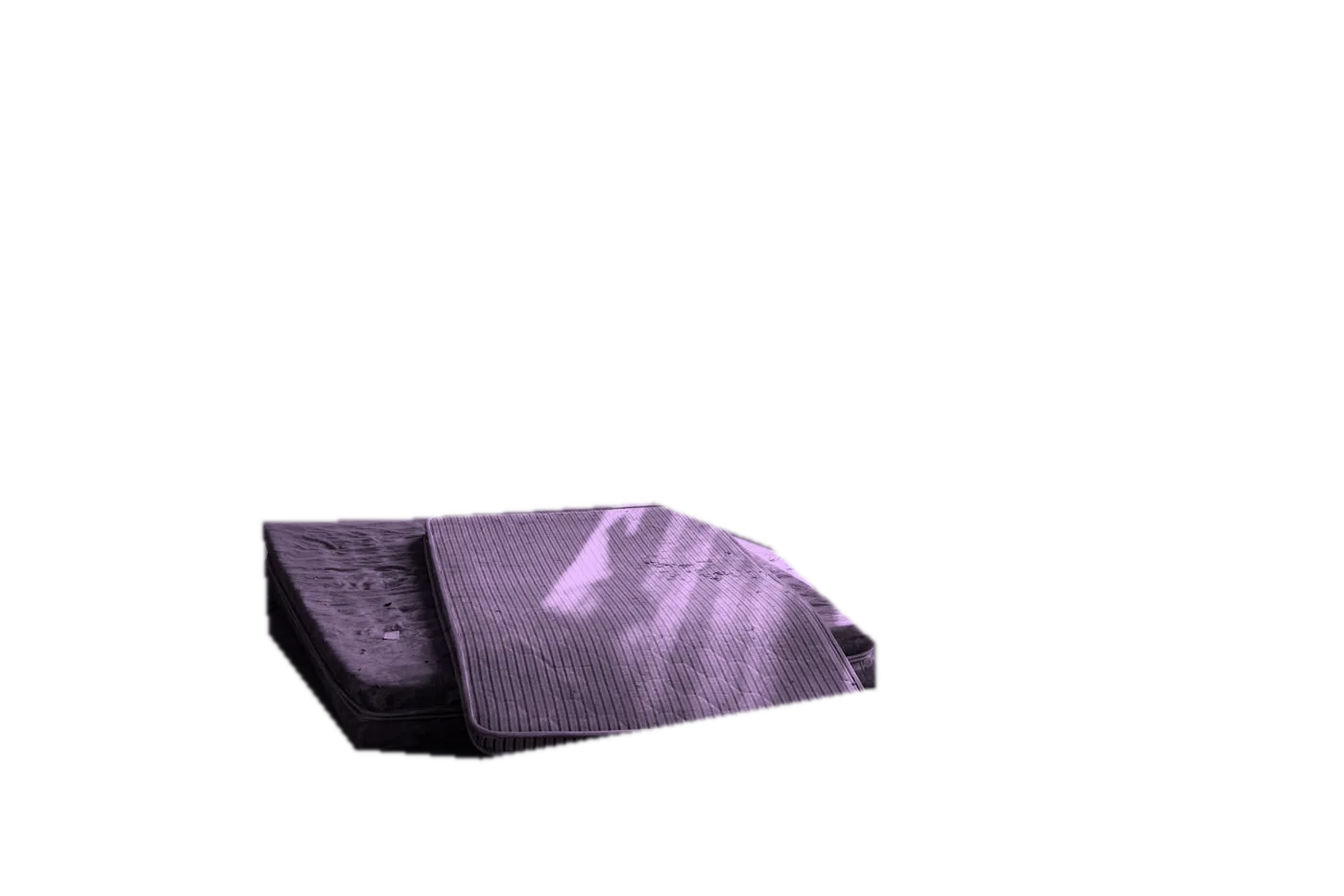
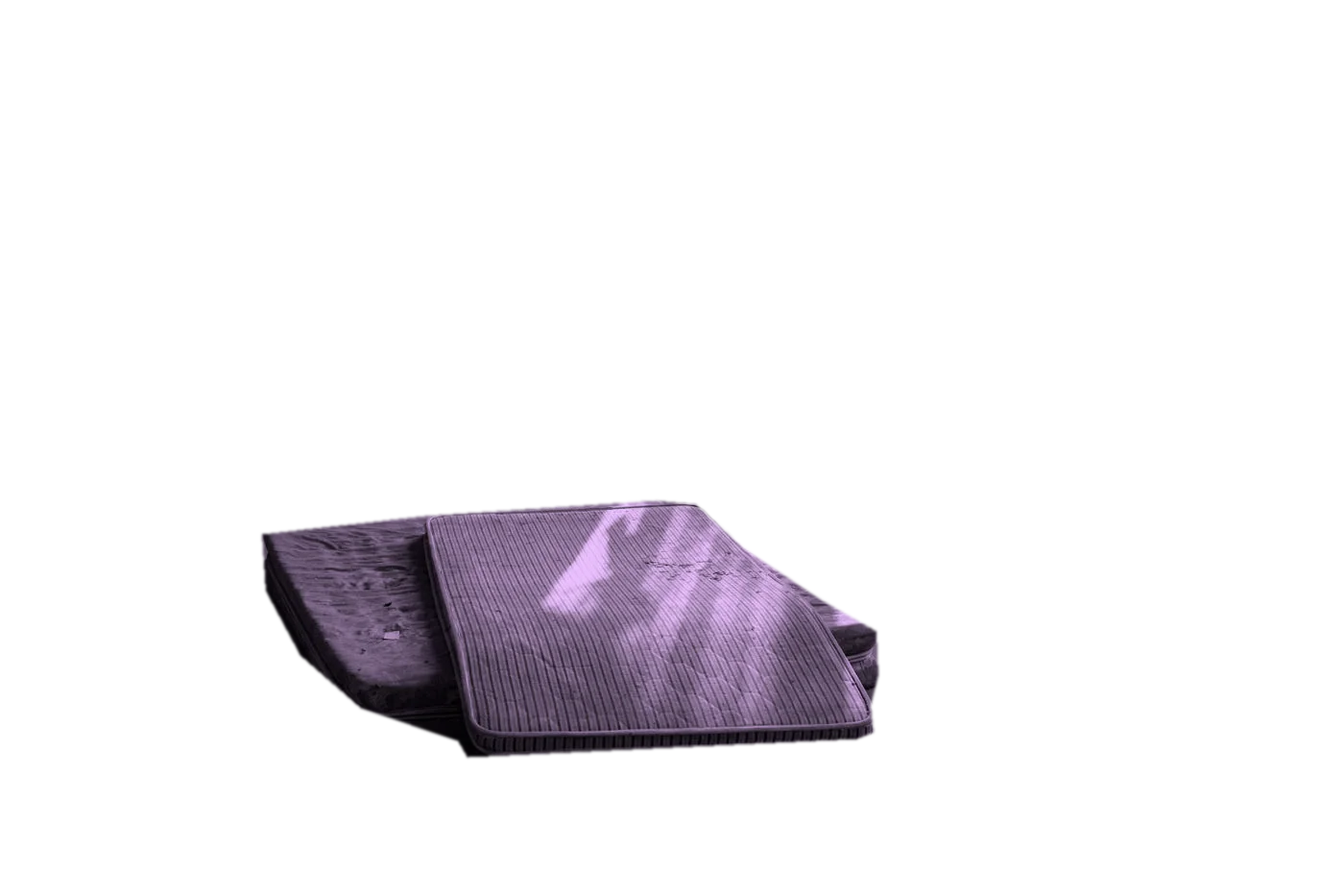
Kolibri-Seite: Farbebenen einzeln geprüft und nachgezeichnet (Stuhl, Matratzen, Fenster, Polster), unsaubere Graffiti-Ebenen entfernt
Claude-Session: https://claude.ai/code/session_01BfUFskKUTpTaCydK1EPK3d

Changed region(s): [[0.1843, 0.6527, 0.6757, 0.8703], [0.3071, 0.5595, 0.6143, 0.6838], [0.1843, 0.5595, 0.2764, 0.6217]]

diff --git a/public/hauptseite/referenzen/make-it-real/index.html b/public/hauptseite/referenzen/make-it-real/index.html
@@ -75,7 +75,7 @@ select{width:100%;background:#0b1030;border:1px solid #5666a8;color:white;border
 <section id="idee"><div class="eyebrow">Mehr als eine schöne Idee</div><div class="sectiontop"><h2>Es beginnt mit einem Funken.<br>Es bleibt ein Eindruck.</h2><p>Wie ein Kolibri: voller Energie, unverwechselbar und immer in Bewegung. Genau so darf sich deine nächste Idee anfühlen.</p></div><div class="offers"><article class="offer"><small>01 / KLARHEIT</small><h3>Deine Vision. Auf den Punkt.</h3><p>Was möchtest du verändern? Für wen? Aus einem ersten Gedanken wird eine klare Richtung.</p><span class="tag">IDEE & KONZEPT ↗</span></article><article class="offer"><small>02 / AUSDRUCK</small><h3>Mut zur eigenen Farbe.</h3><p>Farben, Formen und Worte, die zusammenpassen. Ein Auftritt, der deine Persönlichkeit sichtbar macht.</p><span class="tag">DESIGN & IDENTITÄT ↗</span></article><article class="offer"><small>03 / BEWEGUNG</small><h3>Vom Kopf in die Welt.</h3><p>Eine Seite zum Entdecken. Eine Geschichte zum Weitererzählen. Ein nächster Schritt, der sich richtig anfühlt.</p><span class="tag">WEB & ERLEBNIS ↗</span></article></div></section>
 <section class="experience" id="inspiration"><div class="visual"><div class="art-window" id="art" data-tint role="img" aria-label="Kolibri-Farbexperiment"></div><div class="visual-copy"><div class="eyebrow">Ein Motiv. Neue Möglichkeiten.</div><h2 style="margin-top:25px">Weniger gewöhnlich.<br>Mehr du.</h2><p>Ein kleiner Perspektivwechsel kann alles verändern. Das Motiv bleibt ruhig – nur die Farbstimmung wechselt alle zwei Sekunden zwischen Türkis, Violett und Gold. Pausiere den Wechsel oder wähle deine Farbe selbst.</p><div class="mood-bar" style="margin-top:0" role="group" aria-label="Farbstimmung wählen"><div class="palette"><button type="button" class="swatch" style="background:#86e6cf" data-mood="0" aria-label="Türkis" aria-pressed="true"></button><button type="button" class="swatch" style="background:#b9a8ff" data-mood="1" aria-label="Violett" aria-pressed="false"></button><button type="button" class="swatch" style="background:#e8c76a" data-mood="2" aria-label="Gold" aria-pressed="false"></button></div><button type="button" class="cyclebtn" data-cycle aria-pressed="false">Farbwechsel pausieren</button></div><div class="palette-label" data-mood-label>Türkis · Klar. Lebendig. Grenzenlos.</div><p class="mood-note" data-cycle-note></p><p class="sr-only" id="moodStatus" role="status"></p></div></div></section>
 <section id="weg"><div class="eyebrow">Von „Was wäre, wenn?“ zu „Wow.“</div><div class="sectiontop"><h2>Große Ideen.<br>Ein klarer nächster Schritt.</h2></div><div class="steps"><article><small>01 — ENTDECKEN</small><h3>Gib der Idee Raum.</h3><p>Sammle, was dich inspiriert. Ein Bild, ein Gefühl, ein Ziel. Der Anfang muss noch nicht perfekt sein.</p></article><article><small>02 — FORMEN</small><h3>Mach sie greifbar.</h3><p>Wähle eine Richtung und konzentriere dich auf das Wesentliche. Was soll jemand sehen, fühlen und tun?</p></article><article><small>03 — STARTEN</small><h3>Bring sie ins Rollen.</h3><p>Halte deinen ersten konkreten Schritt fest. Aus „irgendwann“ wird ein Projekt mit einer Richtung.</p></article></div></section>
-<section class="makro" id="makro"><div class="eyebrow">Makrofotografie</div><div class="sectiontop"><h2>Farbe im Detail.<br>Nah genug zum Staunen.</h2><p>Ein Federmotiv in Makro: Das Foto bleibt gleich, nur der Farbton wechselt mit der gewählten Stimmung – Türkis, Violett, Gold.</p></div><div class="mk-grid"><figure class="mk big"><div class="mk-img" data-tint-mk role="img" aria-label="Makrofoto einer schillernden Pfauenfeder mit blauem Auge, der Farbton folgt der gewählten Stimmung"></div><figcaption>Makro · Stimmung: <span data-mood-label></span></figcaption></figure><figure class="mk d1"><div class="mk-img" data-tint-mk role="img" aria-label="Detailausschnitt der Feder, Struktur und Glanz"></div><figcaption>Detail · Struktur</figcaption></figure><figure class="mk d2"><div class="mk-img" data-tint-mk role="img" aria-label="Detailausschnitt der Feder, Farbverlauf"></div><figcaption>Detail · Farbverlauf</figcaption></figure></div><p class="mk-note">Foto: Akshat Sharma auf Unsplash (freie Nutzung unter der Unsplash-Lizenz). Platzhalter für eigene Makroaufnahmen von SECRET 58; es zeigt keine Personen und keine Kundenprojekte.</p><div class="ruinen"><h3>Verlassene Orte</h3><p class="sub">Alte Kirchen, Ruinen und aufgegebene Räume, in denen Möbel und Spuren des Lebens zurückgeblieben sind. Die Fotos bleiben, wie sie sind. Nur kleine Details verändern sich ganz sacht, und nur dort, wo es sie im Bild gibt: Gras und Laub wechseln zwischen Sommergrün und Herbst, der Himmel bekommt Morgenrot, einzelne Gegenstände wie Polster, Vorhänge oder Fensterrahmen nehmen eine andere Farbe an, Graffiti wechseln ihre Farben. Stühle, Tische, Bänke, Polster, Vorhänge, Teppiche und Tapeten nehmen Farben aus der Palette an (Türkis, Violett, Gold). Fotos ohne solche Details bleiben unverändert. Ein Klick zeigt das Originalfoto groß.</p><div class="ru-grid"><figure class="ru"><button type="button" class="ru-open" aria-label="Foto vergrößern: Verlassene Kirche mit Altar"><img src="ruinen/ruine-01.jpg" alt="Verlassene Kirche mit Altar, Kreuz und Teppich im Licht eines Fensters" loading="lazy" width="1400" height="787"></button><img class="fv" src="ruinen/var/01-teppich-a.webp" alt="" aria-hidden="true" loading="lazy" style="--t:14s;--d:-3s"><img class="fv" src="ruinen/var/01-teppich-b.webp" alt="" aria-hidden="true" loading="lazy" style="--t:14s;--d:-10s"><img class="fv" src="ruinen/var/01-stuehle-a.webp" alt="" aria-hidden="true" loading="lazy" style="--t:16s;--d:-6s"><figcaption><b>Verlassene Kirche mit Altar</b>Foto: Gary Walker-Jones · Unsplash · Spiel: Teppich und Stühle in neuen Farben</figcaption></figure><figure class="ru"><button type="button" class="ru-open" aria-label="Foto vergrößern: Verlassene Holzkirche"><img src="ruinen/ruine-02.jpg" alt="Verlassene Holzkirche mit Türmchen und verwittertem Holz auf einer Wiese" loading="lazy" width="1400" height="933"></button><img class="fv" src="ruinen/var/02-herbst.webp" alt="" aria-hidden="true" loading="lazy" style="--t:14s;--d:-3s"><img class="fv" src="ruinen/var/02-himmel.webp" alt="" aria-hidden="true" loading="lazy" style="--t:17s;--d:-11s"><figcaption><b>Verlassene Holzkirche</b>Foto: Unsplash · Spiel: Gras und Laub im Herbst, Morgenrot im Himmel</figcaption></figure><figure class="ru"><button type="button" class="ru-open" aria-label="Foto vergrößern: Alte Steinkirche mit Rundfenster"><img src="ruinen/ruine-03.jpg" alt="Alte Steinkirche mit Spitzbogenfenster und rundem Fenster" loading="lazy" width="1400" height="933"></button><img class="fv" src="ruinen/var/03-himmel.webp" alt="" aria-hidden="true" loading="lazy" style="--t:15s;--d:-4s"><figcaption><b>Alte Steinkirche mit Rundfenster</b>Foto: Unsplash · Spiel: Himmel im Morgenrot</figcaption></figure><figure class="ru"><button type="button" class="ru-open" aria-label="Foto vergrößern: Verlassene Kirche, Langschiff"><img src="ruinen/ruine-04.jpg" alt="Langschiff einer verlassenen Kirche mit Säulen und Bogenfenstern" loading="lazy" width="1400" height="933"></button><img class="fv" src="ruinen/var/04-licht.webp" alt="" aria-hidden="true" loading="lazy" style="--t:9s;--d:-2s"><figcaption><b>Verlassene Kirche, Langschiff</b>Foto: Unsplash · Spiel: Licht in den Kirchenfenstern</figcaption></figure><figure class="ru"><button type="button" class="ru-open" aria-label="Foto vergrößern: Kirchenruine mit Backsteinboden"><img src="ruinen/ruine-05.jpg" alt="Kirchenruine mit Bögen, Backsteinboden und Pflanzen" loading="lazy" width="1400" height="933"></button><img class="fv" src="ruinen/var/05-graffiti.webp" alt="" aria-hidden="true" loading="lazy" style="--t:13s;--d:-5s"><figcaption><b>Kirchenruine mit Backsteinboden</b>Foto: Unsplash · Spiel: Graffiti in neuen Farben</figcaption></figure><figure class="ru"><button type="button" class="ru-open" aria-label="Foto vergrößern: Gewölbte Ruinenhalle"><img src="ruinen/ruine-06.jpg" alt="Hohe gewölbte Halle einer Ruine mit großem Spitzbogenfenster" loading="lazy" width="1400" height="933"></button><figcaption><b>Gewölbte Ruinenhalle</b>Foto: Unsplash</figcaption></figure><figure class="ru"><button type="button" class="ru-open" aria-label="Foto vergrößern: Verlassener Theatersaal"><img src="ruinen/ruine-07.jpg" alt="Leerer Theatersaal mit Bühne, Vorhängen und Bogenfenstern in rotem Licht" loading="lazy" width="1400" height="931"></button><img class="fv" src="ruinen/var/07-vorhang.webp" alt="" aria-hidden="true" loading="lazy" style="--t:13s;--d:-5s"><figcaption><b>Verlassener Theatersaal</b>Foto: Unsplash · Spiel: Vorhang in neuer Farbe</figcaption></figure><figure class="ru"><button type="button" class="ru-open" aria-label="Foto vergrößern: Ruine mit eingestürztem Dach"><img src="ruinen/ruine-08.jpg" alt="Ruine mit eingestürztem Dach, Licht fällt durch die Balken, Pflanzen wachsen im Inneren" loading="lazy" width="1400" height="933"></button><img class="fv" src="ruinen/var/08-herbst.webp" alt="" aria-hidden="true" loading="lazy" style="--t:15s;--d:-6s"><figcaption><b>Ruine mit eingestürztem Dach</b>Foto: Inna Nasonova · Unsplash · Spiel: Pflanzen im Herbst</figcaption></figure><figure class="ru"><button type="button" class="ru-open" aria-label="Foto vergrößern: Verlassener Saal mit Möbeln"><img src="ruinen/ruine-09.jpg" alt="Verlassener Saal mit umgestürzten Stühlen, Tischen und zersplittertem Glas" loading="lazy" width="1400" height="933"></button><img class="fv" src="ruinen/var/09-polster.webp" alt="" aria-hidden="true" loading="lazy" style="--t:13s;--d:-2s"><figcaption><b>Verlassener Saal mit Möbeln</b>Foto: Intricate Explorer · Unsplash · Spiel: Polster und Sofa in neuen Farben</figcaption></figure><figure class="ru"><button type="button" class="ru-open" aria-label="Foto vergrößern: Verfallener Raum mit Holzmöbeln"><img src="ruinen/ruine-10.jpg" alt="Verlassener Raum mit zerfallenden Wänden und Holzmöbeln" loading="lazy" width="1400" height="931"></button><img class="fv" src="ruinen/var/10-moebel-a.webp" alt="" aria-hidden="true" loading="lazy" style="--t:14s;--d:-2s"><img class="fv" src="ruinen/var/10-moebel-b.webp" alt="" aria-hidden="true" loading="lazy" style="--t:14s;--d:-9s"><figcaption><b>Verfallener Raum mit Holzmöbeln</b>Foto: Ed Stone · Unsplash · Spiel: Tisch und Bank in neuen Farben</figcaption></figure><figure class="ru"><button type="button" class="ru-open" aria-label="Foto vergrößern: Bogenfenster im verlassenen Raum"><img src="ruinen/ruine-11.jpg" alt="Hohes Bogenfenster in einem verfallenen Raum mit Regal und Tisch" loading="lazy" width="1400" height="932"></button><img class="fv" src="ruinen/var/11-herbst.webp" alt="" aria-hidden="true" loading="lazy" style="--t:15s;--d:-7s"><figcaption><b>Bogenfenster im verlassenen Raum</b>Foto: Peter Herrmann · Unsplash · Spiel: Laub vor dem Fenster im Herbst</figcaption></figure><figure class="ru"><button type="button" class="ru-open" aria-label="Foto vergrößern: Offene Türen und Schutt"><img src="ruinen/ruine-12.jpg" alt="Verfallenes Gebäude mit offenen Türen und Schutt auf dem Boden" loading="lazy" width="1400" height="934"></button><img class="fv" src="ruinen/var/12-tapete-a.webp" alt="" aria-hidden="true" loading="lazy" style="--t:16s;--d:-2s"><img class="fv" src="ruinen/var/12-tapete-b.webp" alt="" aria-hidden="true" loading="lazy" style="--t:16s;--d:-10s"><figcaption><b>Offene Türen und Schutt</b>Foto: Ries Bosch · Unsplash · Spiel: Tapete in neuen Farben</figcaption></figure><figure class="ru"><button type="button" class="ru-open" aria-label="Foto vergrößern: Sonnenlicht und alte Matratzen"><img src="ruinen/ruine-13.jpg" alt="Sonnendurchfluteter verlassener Raum mit alten Matratzen und zerbrochenen Fenstern" loading="lazy" width="1400" height="933"></button><img class="fv" src="ruinen/var/13-sessel-a.webp" alt="" aria-hidden="true" loading="lazy" style="--t:15s;--d:-4s"><img class="fv" src="ruinen/var/13-matratze-a.webp" alt="" aria-hidden="true" loading="lazy" style="--t:17s;--d:-11s"><figcaption><b>Sonnenlicht und alte Matratzen</b>Foto: X F · Unsplash · Spiel: Sessel und Matratzen in neuen Farben</figcaption></figure><figure class="ru"><button type="button" class="ru-open" aria-label="Foto vergrößern: Blick durch eine offene Tür"><img src="ruinen/ruine-14.jpg" alt="Dunkler Raum mit Blick durch eine offene Tür auf einen Stuhl" loading="lazy" width="1400" height="933"></button><img class="fv" src="ruinen/var/14-graffiti.webp" alt="" aria-hidden="true" loading="lazy" style="--t:13s;--d:-6s"><figcaption><b>Blick durch eine offene Tür</b>Foto: Unsplash · Spiel: Graffiti in neuen Farben</figcaption></figure><figure class="ru"><button type="button" class="ru-open" aria-label="Foto vergrößern: Rotes Zimmer mit Fenstern"><img src="ruinen/ruine-15.jpg" alt="Verlassenes Zimmer mit roten Wänden und zwei Fenstern" loading="lazy" width="1400" height="933"></button><img class="fv" src="ruinen/var/15-rahmen.webp" alt="" aria-hidden="true" loading="lazy" style="--t:13s;--d:-4s"><figcaption><b>Rotes Zimmer mit Fenstern</b>Foto: Unsplash · Spiel: Fensterfarbe wechselt</figcaption></figure><figure class="ru"><button type="button" class="ru-open" aria-label="Foto vergrößern: Sonnenlicht im leeren Raum"><img src="ruinen/ruine-16.jpg" alt="Leerer verfallener Raum, warmes Licht fällt durch die Fenster" loading="lazy" width="1400" height="933"></button><figcaption><b>Sonnenlicht im leeren Raum</b>Foto: Unsplash</figcaption></figure><figure class="ru"><button type="button" class="ru-open" aria-label="Foto vergrößern: Verfallene Fabrikhalle mit Dachlicht"><img src="ruinen/ruine-17.jpg" alt="Verfallene Fabrikhalle mit Stahlträgern und Licht durch das Dach" loading="lazy" width="1400" height="933"></button><figcaption><b>Verfallene Fabrikhalle mit Dachlicht</b>Foto: Unsplash</figcaption></figure><figure class="ru"><button type="button" class="ru-open" aria-label="Foto vergrößern: Endlose Säulenhalle"><img src="ruinen/ruine-18.jpg" alt="Lange Halle mit Holzsäulen in einem verlassenen Gebäude" loading="lazy" width="1400" height="933"></button><figcaption><b>Endlose Säulenhalle</b>Foto: Unsplash</figcaption></figure><figure class="ru"><button type="button" class="ru-open" aria-label="Foto vergrößern: Überflutete Stahlhalle"><img src="ruinen/ruine-19.jpg" alt="Ausgebrannte Stahlhalle, Wasser spiegelt das Gerüst" loading="lazy" width="1400" height="933"></button><figcaption><b>Überflutete Stahlhalle</b>Foto: Unsplash</figcaption></figure><figure class="ru"><button type="button" class="ru-open" aria-label="Foto vergrößern: Halle, die die Natur zurückholt"><img src="ruinen/ruine-20.jpg" alt="Verfallene Halle mit Bogenfenstern, Pflanzen und Sonnenstrahlen" loading="lazy" width="1400" height="933"></button><img class="fv" src="ruinen/var/20-herbst.webp" alt="" aria-hidden="true" loading="lazy" style="--t:16s;--d:-8s"><img class="fv" src="ruinen/var/20-graffiti.webp" alt="" aria-hidden="true" loading="lazy" style="--t:14s;--d:-2s"><figcaption><b>Halle, die die Natur zurückholt</b>Foto: Unsplash · Spiel: Laub im Herbst, Graffiti in neuen Farben</figcaption></figure></div><p class="mk-note">Alle Fotos stammen von Unsplash und dürfen dort unter der Unsplash-Lizenz kostenlos genutzt werden; bei den Bildern ohne Namen steht die Fotografin oder der Fotograf auf der jeweiligen Unsplash-Seite. Sie sind Beispiele für die Bildwelt dieses Designkonzepts. Die Orte sind nicht als öffentlich zugänglich zu verstehen, bitte nicht betreten.</p></div>
+<section class="makro" id="makro"><div class="eyebrow">Makrofotografie</div><div class="sectiontop"><h2>Farbe im Detail.<br>Nah genug zum Staunen.</h2><p>Ein Federmotiv in Makro: Das Foto bleibt gleich, nur der Farbton wechselt mit der gewählten Stimmung – Türkis, Violett, Gold.</p></div><div class="mk-grid"><figure class="mk big"><div class="mk-img" data-tint-mk role="img" aria-label="Makrofoto einer schillernden Pfauenfeder mit blauem Auge, der Farbton folgt der gewählten Stimmung"></div><figcaption>Makro · Stimmung: <span data-mood-label></span></figcaption></figure><figure class="mk d1"><div class="mk-img" data-tint-mk role="img" aria-label="Detailausschnitt der Feder, Struktur und Glanz"></div><figcaption>Detail · Struktur</figcaption></figure><figure class="mk d2"><div class="mk-img" data-tint-mk role="img" aria-label="Detailausschnitt der Feder, Farbverlauf"></div><figcaption>Detail · Farbverlauf</figcaption></figure></div><p class="mk-note">Foto: Akshat Sharma auf Unsplash (freie Nutzung unter der Unsplash-Lizenz). Platzhalter für eigene Makroaufnahmen von SECRET 58; es zeigt keine Personen und keine Kundenprojekte.</p><div class="ruinen"><h3>Verlassene Orte</h3><p class="sub">Alte Kirchen, Ruinen und aufgegebene Räume, in denen Möbel und Spuren des Lebens zurückgeblieben sind. Die Fotos bleiben, wie sie sind. Nur kleine Details verändern sich ganz sacht, und nur dort, wo es sie im Bild gibt: Gras und Laub wechseln zwischen Sommergrün und Herbst, der Himmel bekommt Morgenrot, einzelne Gegenstände wie Polster, Vorhänge oder Fensterrahmen nehmen eine andere Farbe an, Graffiti wechseln ihre Farben. Stühle, Tische, Bänke, Polster, Vorhänge, Teppiche und Tapeten nehmen Farben aus der Palette an (Türkis, Violett, Gold). Fotos ohne solche Details bleiben unverändert. Ein Klick zeigt das Originalfoto groß.</p><div class="ru-grid"><figure class="ru"><button type="button" class="ru-open" aria-label="Foto vergrößern: Verlassene Kirche mit Altar"><img src="ruinen/ruine-01.jpg" alt="Verlassene Kirche mit Altar, Kreuz und Teppich im Licht eines Fensters" loading="lazy" width="1400" height="787"></button><img class="fv" src="ruinen/var/01-teppich-a.webp" alt="" aria-hidden="true" loading="lazy" style="--t:14s;--d:-3s"><img class="fv" src="ruinen/var/01-teppich-b.webp" alt="" aria-hidden="true" loading="lazy" style="--t:14s;--d:-10s"><img class="fv" src="ruinen/var/01-stuehle-a.webp" alt="" aria-hidden="true" loading="lazy" style="--t:16s;--d:-6s"><figcaption><b>Verlassene Kirche mit Altar</b>Foto: Gary Walker-Jones · Unsplash · Spiel: Teppich und Stuhl in neuen Farben</figcaption></figure><figure class="ru"><button type="button" class="ru-open" aria-label="Foto vergrößern: Verlassene Holzkirche"><img src="ruinen/ruine-02.jpg" alt="Verlassene Holzkirche mit Türmchen und verwittertem Holz auf einer Wiese" loading="lazy" width="1400" height="933"></button><img class="fv" src="ruinen/var/02-herbst.webp" alt="" aria-hidden="true" loading="lazy" style="--t:14s;--d:-3s"><img class="fv" src="ruinen/var/02-himmel.webp" alt="" aria-hidden="true" loading="lazy" style="--t:17s;--d:-11s"><figcaption><b>Verlassene Holzkirche</b>Foto: Unsplash · Spiel: Gras und Laub im Herbst, Morgenrot im Himmel</figcaption></figure><figure class="ru"><button type="button" class="ru-open" aria-label="Foto vergrößern: Alte Steinkirche mit Rundfenster"><img src="ruinen/ruine-03.jpg" alt="Alte Steinkirche mit Spitzbogenfenster und rundem Fenster" loading="lazy" width="1400" height="933"></button><img class="fv" src="ruinen/var/03-himmel.webp" alt="" aria-hidden="true" loading="lazy" style="--t:15s;--d:-4s"><figcaption><b>Alte Steinkirche mit Rundfenster</b>Foto: Unsplash · Spiel: Himmel im Morgenrot</figcaption></figure><figure class="ru"><button type="button" class="ru-open" aria-label="Foto vergrößern: Verlassene Kirche, Langschiff"><img src="ruinen/ruine-04.jpg" alt="Langschiff einer verlassenen Kirche mit Säulen und Bogenfenstern" loading="lazy" width="1400" height="933"></button><img class="fv" src="ruinen/var/04-licht.webp" alt="" aria-hidden="true" loading="lazy" style="--t:9s;--d:-2s"><figcaption><b>Verlassene Kirche, Langschiff</b>Foto: Unsplash · Spiel: Licht in den Kirchenfenstern</figcaption></figure><figure class="ru"><button type="button" class="ru-open" aria-label="Foto vergrößern: Kirchenruine mit Backsteinboden"><img src="ruinen/ruine-05.jpg" alt="Kirchenruine mit Bögen, Backsteinboden und Pflanzen" loading="lazy" width="1400" height="933"></button><figcaption><b>Kirchenruine mit Backsteinboden</b>Foto: Unsplash</figcaption></figure><figure class="ru"><button type="button" class="ru-open" aria-label="Foto vergrößern: Gewölbte Ruinenhalle"><img src="ruinen/ruine-06.jpg" alt="Hohe gewölbte Halle einer Ruine mit großem Spitzbogenfenster" loading="lazy" width="1400" height="933"></button><figcaption><b>Gewölbte Ruinenhalle</b>Foto: Unsplash</figcaption></figure><figure class="ru"><button type="button" class="ru-open" aria-label="Foto vergrößern: Verlassener Theatersaal"><img src="ruinen/ruine-07.jpg" alt="Leerer Theatersaal mit Bühne, Vorhängen und Bogenfenstern in rotem Licht" loading="lazy" width="1400" height="931"></button><img class="fv" src="ruinen/var/07-vorhang.webp" alt="" aria-hidden="true" loading="lazy" style="--t:13s;--d:-5s"><figcaption><b>Verlassener Theatersaal</b>Foto: Unsplash · Spiel: Vorhang in neuer Farbe</figcaption></figure><figure class="ru"><button type="button" class="ru-open" aria-label="Foto vergrößern: Ruine mit eingestürztem Dach"><img src="ruinen/ruine-08.jpg" alt="Ruine mit eingestürztem Dach, Licht fällt durch die Balken, Pflanzen wachsen im Inneren" loading="lazy" width="1400" height="933"></button><img class="fv" src="ruinen/var/08-herbst.webp" alt="" aria-hidden="true" loading="lazy" style="--t:15s;--d:-6s"><figcaption><b>Ruine mit eingestürztem Dach</b>Foto: Inna Nasonova · Unsplash · Spiel: Pflanzen im Herbst</figcaption></figure><figure class="ru"><button type="button" class="ru-open" aria-label="Foto vergrößern: Verlassener Saal mit Möbeln"><img src="ruinen/ruine-09.jpg" alt="Verlassener Saal mit umgestürzten Stühlen, Tischen und zersplittertem Glas" loading="lazy" width="1400" height="933"></button><img class="fv" src="ruinen/var/09-polster.webp" alt="" aria-hidden="true" loading="lazy" style="--t:13s;--d:-2s"><figcaption><b>Verlassener Saal mit Möbeln</b>Foto: Intricate Explorer · Unsplash · Spiel: Polster und Sofa in neuen Farben</figcaption></figure><figure class="ru"><button type="button" class="ru-open" aria-label="Foto vergrößern: Verfallener Raum mit Holzmöbeln"><img src="ruinen/ruine-10.jpg" alt="Verlassener Raum mit zerfallenden Wänden und Holzmöbeln" loading="lazy" width="1400" height="931"></button><img class="fv" src="ruinen/var/10-moebel-a.webp" alt="" aria-hidden="true" loading="lazy" style="--t:14s;--d:-2s"><img class="fv" src="ruinen/var/10-moebel-b.webp" alt="" aria-hidden="true" loading="lazy" style="--t:14s;--d:-9s"><figcaption><b>Verfallener Raum mit Holzmöbeln</b>Foto: Ed Stone · Unsplash · Spiel: Tisch und Bank in neuen Farben</figcaption></figure><figure class="ru"><button type="button" class="ru-open" aria-label="Foto vergrößern: Bogenfenster im verlassenen Raum"><img src="ruinen/ruine-11.jpg" alt="Hohes Bogenfenster in einem verfallenen Raum mit Regal und Tisch" loading="lazy" width="1400" height="932"></button><img class="fv" src="ruinen/var/11-herbst.webp" alt="" aria-hidden="true" loading="lazy" style="--t:15s;--d:-7s"><figcaption><b>Bogenfenster im verlassenen Raum</b>Foto: Peter Herrmann · Unsplash · Spiel: Laub vor dem Fenster im Herbst</figcaption></figure><figure class="ru"><button type="button" class="ru-open" aria-label="Foto vergrößern: Offene Türen und Schutt"><img src="ruinen/ruine-12.jpg" alt="Verfallenes Gebäude mit offenen Türen und Schutt auf dem Boden" loading="lazy" width="1400" height="934"></button><img class="fv" src="ruinen/var/12-tapete-a.webp" alt="" aria-hidden="true" loading="lazy" style="--t:16s;--d:-2s"><img class="fv" src="ruinen/var/12-tapete-b.webp" alt="" aria-hidden="true" loading="lazy" style="--t:16s;--d:-10s"><figcaption><b>Offene Türen und Schutt</b>Foto: Ries Bosch · Unsplash · Spiel: Tapete in neuen Farben</figcaption></figure><figure class="ru"><button type="button" class="ru-open" aria-label="Foto vergrößern: Sonnenlicht und alte Matratzen"><img src="ruinen/ruine-13.jpg" alt="Sonnendurchfluteter verlassener Raum mit alten Matratzen und zerbrochenen Fenstern" loading="lazy" width="1400" height="933"></button><img class="fv" src="ruinen/var/13-sessel-a.webp" alt="" aria-hidden="true" loading="lazy" style="--t:15s;--d:-4s"><img class="fv" src="ruinen/var/13-matratze-a.webp" alt="" aria-hidden="true" loading="lazy" style="--t:17s;--d:-11s"><figcaption><b>Sonnenlicht und alte Matratzen</b>Foto: X F · Unsplash · Spiel: Sessel und Matratzen in neuen Farben</figcaption></figure><figure class="ru"><button type="button" class="ru-open" aria-label="Foto vergrößern: Blick durch eine offene Tür"><img src="ruinen/ruine-14.jpg" alt="Dunkler Raum mit Blick durch eine offene Tür auf einen Stuhl" loading="lazy" width="1400" height="933"></button><figcaption><b>Blick durch eine offene Tür</b>Foto: Unsplash</figcaption></figure><figure class="ru"><button type="button" class="ru-open" aria-label="Foto vergrößern: Rotes Zimmer mit Fenstern"><img src="ruinen/ruine-15.jpg" alt="Verlassenes Zimmer mit roten Wänden und zwei Fenstern" loading="lazy" width="1400" height="933"></button><img class="fv" src="ruinen/var/15-rahmen.webp" alt="" aria-hidden="true" loading="lazy" style="--t:13s;--d:-4s"><figcaption><b>Rotes Zimmer mit Fenstern</b>Foto: Unsplash · Spiel: Fensterfarbe wechselt</figcaption></figure><figure class="ru"><button type="button" class="ru-open" aria-label="Foto vergrößern: Sonnenlicht im leeren Raum"><img src="ruinen/ruine-16.jpg" alt="Leerer verfallener Raum, warmes Licht fällt durch die Fenster" loading="lazy" width="1400" height="933"></button><figcaption><b>Sonnenlicht im leeren Raum</b>Foto: Unsplash</figcaption></figure><figure class="ru"><button type="button" class="ru-open" aria-label="Foto vergrößern: Verfallene Fabrikhalle mit Dachlicht"><img src="ruinen/ruine-17.jpg" alt="Verfallene Fabrikhalle mit Stahlträgern und Licht durch das Dach" loading="lazy" width="1400" height="933"></button><figcaption><b>Verfallene Fabrikhalle mit Dachlicht</b>Foto: Unsplash</figcaption></figure><figure class="ru"><button type="button" class="ru-open" aria-label="Foto vergrößern: Endlose Säulenhalle"><img src="ruinen/ruine-18.jpg" alt="Lange Halle mit Holzsäulen in einem verlassenen Gebäude" loading="lazy" width="1400" height="933"></button><figcaption><b>Endlose Säulenhalle</b>Foto: Unsplash</figcaption></figure><figure class="ru"><button type="button" class="ru-open" aria-label="Foto vergrößern: Überflutete Stahlhalle"><img src="ruinen/ruine-19.jpg" alt="Ausgebrannte Stahlhalle, Wasser spiegelt das Gerüst" loading="lazy" width="1400" height="933"></button><figcaption><b>Überflutete Stahlhalle</b>Foto: Unsplash</figcaption></figure><figure class="ru"><button type="button" class="ru-open" aria-label="Foto vergrößern: Halle, die die Natur zurückholt"><img src="ruinen/ruine-20.jpg" alt="Verfallene Halle mit Bogenfenstern, Pflanzen und Sonnenstrahlen" loading="lazy" width="1400" height="933"></button><img class="fv" src="ruinen/var/20-herbst.webp" alt="" aria-hidden="true" loading="lazy" style="--t:16s;--d:-8s"><img class="fv" src="ruinen/var/20-graffiti.webp" alt="" aria-hidden="true" loading="lazy" style="--t:14s;--d:-2s"><figcaption><b>Halle, die die Natur zurückholt</b>Foto: Unsplash · Spiel: Laub im Herbst, Graffiti in neuen Farben</figcaption></figure></div><p class="mk-note">Alle Fotos stammen von Unsplash und dürfen dort unter der Unsplash-Lizenz kostenlos genutzt werden; bei den Bildern ohne Namen steht die Fotografin oder der Fotograf auf der jeweiligen Unsplash-Seite. Sie sind Beispiele für die Bildwelt dieses Designkonzepts. Die Orte sind nicht als öffentlich zugänglich zu verstehen, bitte nicht betreten.</p></div>
 <dialog id="ruDlg" aria-label="Foto im Vollbild"><div class="ru-st" id="ruSt"><img id="ruImg" alt=""></div><span id="ruCount"></span><button type="button" class="ru-x" id="ruX" aria-label="Schließen">×</button><button type="button" class="ru-nav" id="ruPrev" aria-label="Vorheriges Foto">‹</button><button type="button" class="ru-nav" id="ruNext" aria-label="Nächstes Foto">›</button><p id="ruCap"></p></dialog>
 </section>
 <section class="werk" id="werkstatt"><div class="eyebrow">Projektwerkstatt</div><div class="sectiontop"><h2>Aus einer Idee wird<br>ein Plan.</h2><p>Halte Projekt, Ideen und Aufgaben fest – direkt hier in deinem Browser.</p></div>
